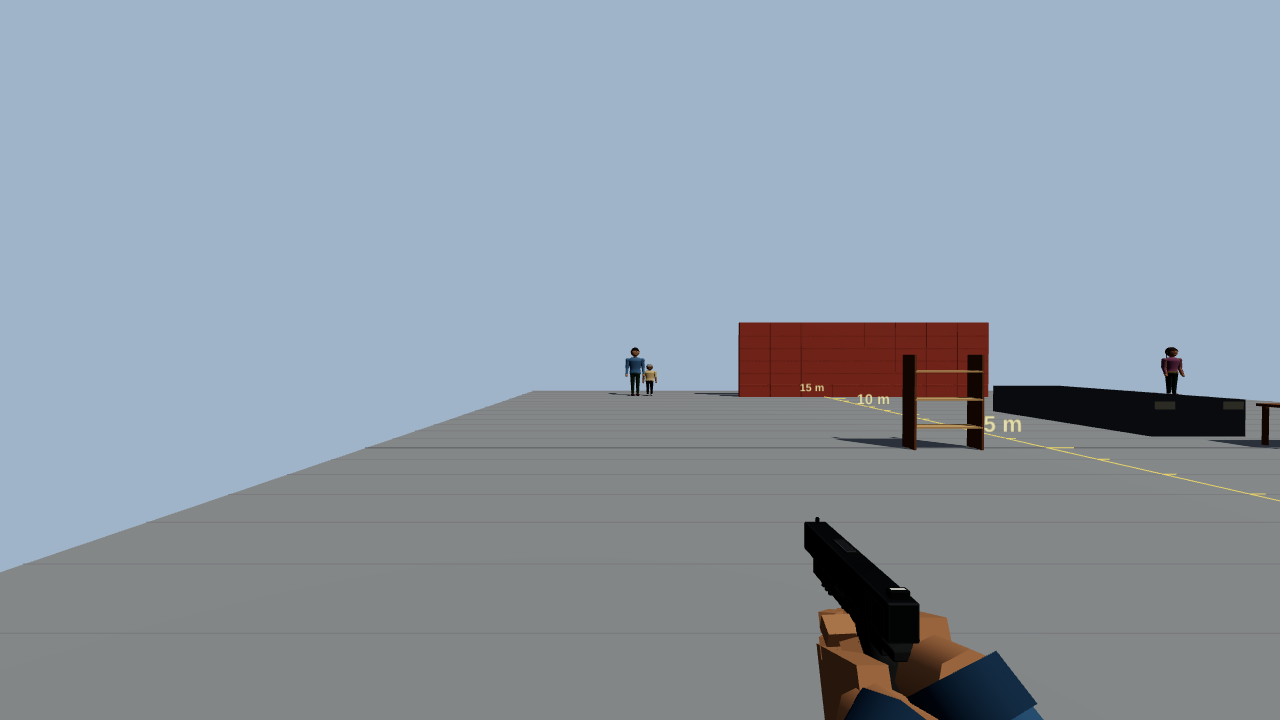
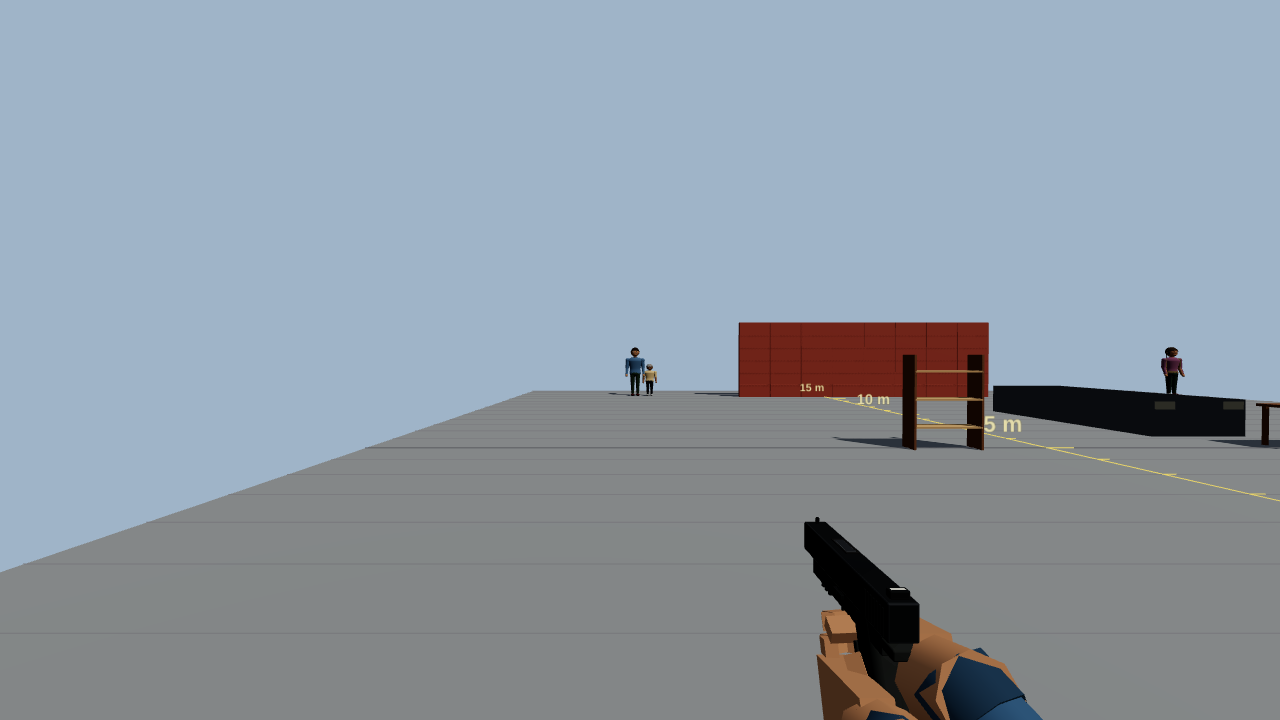
fix(game-characters-three): slimmer sleeves, three-segment tapered hands, readable kick leg
Left shoulder lower and back with thinner arms, tapered palm and fingers of three segments, a little self-glow so dark trousers read, kick foot raised so the leg shows; supporting hand of a handgun sits lower on the grip. Screenshots retaken.

Claude-Session: https://claude.ai/code/session_01GuPQ3pcqCNyJdQZbaF8AdD

Changed region(s): [[0.625, 0.8556, 0.8125, 1.0], [0.7188, 0.8556, 0.75, 0.8861]]

diff --git a/packages/game-characters-three/src/first-person/hand.ts b/packages/game-characters-three/src/first-person/hand.ts
@@ -2,18 +2,18 @@ import type { THREE_NS } from '../three'
 
 type Three = typeof THREE_NS
 
-/** Lengths of the two segments and the width of each finger, from the thumb side to the little finger (a right hand: the thumb is at -z). Metres. */
+/** Lengths of the three segments and the width of each finger, from the thumb side to the little finger (a right hand: the thumb is at -z). Metres; a finger is about 8 cm long. */
 const FINGERS = [
-  { z: -0.03, near: 0.04, far: 0.03, width: 0.018 },
-  { z: -0.01, near: 0.044, far: 0.034, width: 0.019 },
-  { z: 0.01, near: 0.04, far: 0.03, width: 0.018 },
-  { z: 0.028, near: 0.034, far: 0.026, width: 0.016 },
+  { z: -0.03, lengths: [0.034, 0.024, 0.02], width: 0.016 },
+  { z: -0.0105, lengths: [0.038, 0.027, 0.022], width: 0.0165 },
+  { z: 0.009, lengths: [0.035, 0.025, 0.02], width: 0.0155 },
+  { z: 0.027, lengths: [0.029, 0.02, 0.018], width: 0.0135 },
 ] as const
-const PALM = { length: 0.09, thick: 0.024, width: 0.088 }
-const FINGER_THICK = 0.017
-/** The curl at a full grip, radians: the near segment, the far one, and the difference between the fingers (the little finger curls more). */
-const CURL = { near: 1.32, far: 1.45, spread: 0.06 }
-const THUMB = { base: [0.005, -0.006, -0.044] as const, near: 0.036, far: 0.03, width: 0.021 }
+const PALM = { length: 0.09, thick: 0.026, width: 0.09, wristWidth: 0.066 }
+const FINGER_THICK = 0.0135
+/** The curl at a full grip, radians: the three segments, and the difference between the fingers (the little finger curls more). */
+const CURL = { near: 1.05, mid: 1.25, far: 0.85, spread: 0.06 }
+const THUMB = { base: [0.005, -0.006, -0.044] as const, near: 0.034, far: 0.028, width: 0.019 }
 
 export type HandMesh = {
   /** The hand with its origin at the middle of the palm: x to the knuckles, y the back of the hand, z the little-finger side (the thumb at -z). */
@@ -23,7 +23,7 @@ export type HandMesh = {
   dispose(): void
 }
 
-/** A low-poly hand in the kit's style: a palm, four fingers of two segments that curl, and a thumb that folds over them. A left hand is made by mirroring the group (`scale.z = -1`). */
+/** A low-poly hand in the kit's style: a palm, four fingers of three segments that curl, and a thumb that folds over them. A left hand is made by mirroring the group (`scale.z = -1`). */
 export const createHandMesh = (THREE: Three, skin: THREE_NS.Material, wristSkin: THREE_NS.Material = skin): HandMesh => {
   const root = new THREE.Group()
   root.name = 'first-person-hand'
@@ -37,7 +37,17 @@ export const createHandMesh = (THREE: Three, skin: THREE_NS.Material, wristSkin:
     parent.add(mesh)
     return mesh
   }
-  box(root, PALM.length, PALM.thick, PALM.width, 0, 0, 0)
+  // the palm narrows toward the wrist: a box whose wrist end is pulled in
+  const palmGeometry = new THREE.BoxGeometry(PALM.length, PALM.thick, PALM.width)
+  const palmPosition = palmGeometry.getAttribute('position')
+  for (let i = 0; i < palmPosition.count; i++) {
+    if (palmPosition.getX(i) < 0) palmPosition.setZ(i, (palmPosition.getZ(i) * PALM.wristWidth) / PALM.width)
+  }
+  palmGeometry.computeVertexNormals()
+  geometries.push(palmGeometry)
+  const palm = new THREE.Mesh(palmGeometry, skin)
+  palm.frustumCulled = false
+  root.add(palm)
   // the wrist the hand grows from
   const wristGeometry = new THREE.CylinderGeometry(0.03, 0.033, 0.05, 8)
   wristGeometry.rotateZ(Math.PI / 2)
@@ -47,17 +57,22 @@ export const createHandMesh = (THREE: Three, skin: THREE_NS.Material, wristSkin:
   wrist.frustumCulled = false
   root.add(wrist)
 
-  const joints: Array<{ near: THREE_NS.Group; far: THREE_NS.Group; weight: number }> = []
+  const joints: Array<{ segments: THREE_NS.Group[]; weight: number }> = []
   FINGERS.forEach((finger, index) => {
-    const near = new THREE.Group()
-    near.position.set(PALM.length / 2, 0.002, finger.z)
-    box(near, finger.near, FINGER_THICK, finger.width, finger.near / 2, 0, 0)
-    const far = new THREE.Group()
-    far.position.set(finger.near, 0, 0)
-    box(far, finger.far, FINGER_THICK * 0.92, finger.width * 0.94, finger.far / 2, 0, 0)
-    near.add(far)
-    root.add(near)
-    joints.push({ near, far, weight: 1 + index * (CURL.spread / CURL.near) })
+    const segments: THREE_NS.Group[] = []
+    let parent: THREE_NS.Object3D = root
+    let at = PALM.length / 2
+    finger.lengths.forEach((length, k) => {
+      const group = new THREE.Group()
+      group.position.set(at, k === 0 ? 0.002 : 0, k === 0 ? finger.z : 0)
+      const taper = 1 - k * 0.07
+      box(group, length, FINGER_THICK * taper, finger.width * taper, length / 2, 0, 0)
+      parent.add(group)
+      segments.push(group)
+      parent = group
+      at = length
+    })
+    joints.push({ segments, weight: 1 + index * (CURL.spread / CURL.near) })
   })
 
   // the thumb: it points forward and out when open, and folds across the fingers, toward the palm, when closed
@@ -73,10 +88,8 @@ export const createHandMesh = (THREE: Three, skin: THREE_NS.Material, wristSkin:
 
   const setGrip = (grip: number): void => {
     const k = Math.min(1, Math.max(0, grip))
-    for (const joint of joints) {
-      joint.near.rotation.z = -CURL.near * k * joint.weight
-      joint.far.rotation.z = -CURL.far * k * joint.weight
-    }
+    const curl = [CURL.near, CURL.mid, CURL.far]
+    for (const joint of joints) joint.segments.forEach((segment, i) => (segment.rotation.z = -curl[i]! * k * joint.weight))
     thumbNear.rotation.set(0, 0.55 - 1.45 * k, -0.1 - 0.75 * k)
     thumbFar.rotation.z = -0.1 - 0.7 * k
   }

diff --git a/packages/game-characters-three/src/first-person/arms.ts b/packages/game-characters-three/src/first-person/arms.ts
@@ -26,6 +26,9 @@ const REACH_SLACK = 0.97
 /** A foot is shown while a clip holds it by at least this much. */
 const FOOT_SHOWN = 0.001
 
+/** How much of its own colour each material glows with (0..1). */
+const FILL = 0.3
+
 /** The stances of the preset: `relaxed` and `fists` are rest poses, `hold` follows the targets of the tool in the hands. */
 export const FIRST_PERSON_STANCES = preset.stances as unknown as Readonly<Record<string, StanceDef>>
 /** The rig of the preset: shoulders, bones, elbow pole, hips and the leg of the kick. */
@@ -99,7 +102,7 @@ const mirrorQuaternion = (THREE: Three, q: THREE_NS.Quaternion): THREE_NS.Quater
 
 /**
  * The player's arms in first person, drawn in the space of the camera so they cannot leave the view. Each arm is a sleeve (upper arm and forearm, an elbow and a cuff) and a hand of skin (a palm,
- * four fingers of two segments and a thumb that close on a grip); the right leg (trouser and shoe) appears only while a kick holds it. The hands go where the stance puts them (`relaxed`, `fists`) or,
+ * four fingers of three segments and a thumb that close on a grip); the right leg (trouser and shoe) appears only while a kick holds it. The hands go where the stance puts them (`relaxed`, `fists`) or,
  * in the `hold` stance, where the tool in the hands asks (`HandTargets` of game-contracts, world space); a two-bone IK from fixed shoulders brings the sleeves to them, the elbow bending down and out. A
  * clip (`play`) moves the hands and the foot over that, by a weight that is 0 at its start and end.
  *
@@ -121,13 +124,15 @@ export function createFirstPersonArms(THREE: Three, options: FirstPersonArmsOpti
   const root = new THREE.Group()
   root.name = 'first-person-arms'
   root.userData.viewmodel = true
+  // a little of the colour glows by itself (`FILL`): the arms hang in the camera's space, where the scene's lights reach their undersides badly and a dark trouser would read as a hole
+  const lit = (color: number): THREE_NS.MeshLambertMaterial => new THREE.MeshLambertMaterial({ color, emissive: scaleHex(color, FILL) })
   const materials = {
-    skin: new THREE.MeshLambertMaterial({ color: colors.skin }),
-    sleeve: new THREE.MeshLambertMaterial({ color: colors.sleeve }),
-    cuff: new THREE.MeshLambertMaterial({ color: colors.cuff }),
-    trouser: new THREE.MeshLambertMaterial({ color: colors.trouser }),
-    shoe: new THREE.MeshLambertMaterial({ color: colors.shoe }),
-    sole: new THREE.MeshLambertMaterial({ color: scaleHex(colors.shoe, 0.55) }),
+    skin: lit(colors.skin),
+    sleeve: lit(colors.sleeve),
+    cuff: lit(colors.cuff),
+    trouser: lit(colors.trouser),
+    shoe: lit(colors.shoe),
+    sole: lit(scaleHex(colors.shoe, 0.55)),
   }
   const geometries: THREE_NS.BufferGeometry[] = []
   const Y = new THREE.Vector3(0, 1, 0)

diff --git a/packages/game-weapons-three/src/fx/hand-hold.ts b/packages/game-weapons-three/src/fx/hand-hold.ts
@@ -13,7 +13,7 @@ export const HAND_HOLD = {
   /** How far up the grip the web of the hand sits from its middle. */
   gripUp: 0.006,
   /** How far down the grip the supporting hand of a pistol sits from the middle. */
-  supportDown: 0.026,
+  supportDown: 0.036,
   /** Where along the handguard (0 the receiver, 1 the end of the forend) the supporting hand closes. */
   forendAt: 0.45,
   /** How far under the handguard the palm sits (half a handguard plus the palm). */

diff --git a/packages/game-characters-three/README.md b/packages/game-characters-three/README.md
@@ -50,7 +50,7 @@ The module takes the body, the view (`camera: { mode, set }`) and the state (`st
 
 `toRoomAvatar` also gives the room the first-person arms (`firstPerson: false` for none) and `strike(clipId)`, which plays the attack clip on the body and the first-person clip of the same id on the arms and answers the seconds to the impact (the same in both views).
 
-**First-person arms.** `createFirstPersonArms(THREE, { colors?, rig?, stances?, clips?, blend?, bob? })` builds sleeves (upper arm, forearm, elbow, cuff) and hands of skin (palm, four fingers of two segments, a thumb that close on a grip) drawn in the camera's space, plus the right leg that only shows during a kick. `arms.update(dt, { camera, targets, stance, speed, running, crouch })`: the `relaxed` and `fists` stances are rest poses (`FIRST_PERSON_STANCES`, from `presets/first-person-arms.json`), `hold` follows the `HandTargets` of `game-contracts` (world space) with a two-bone IK from fixed shoulders, the elbow bending down and out; a target out of reach is clamped (the shoulder moves `reachShift` toward it first). `arms.play('punch_right' | 'shove_two_hands' | 'front_kick')` overlays a `FirstPersonClip` (`FIRST_PERSON_CLIPS` of `game-characters-people`, same durations and impact seconds as the attack clips); `arms.on('event', fn)` gives its `impact`; `arms.handPose(side)` reads where a hand is drawn. Hand frame: x wrist to knuckles, y back of the hand, z little-finger side; a left hand is the right one mirrored.
+**First-person arms.** `createFirstPersonArms(THREE, { colors?, rig?, stances?, clips?, blend?, bob? })` builds sleeves (upper arm, forearm, elbow, cuff) and hands of skin (palm, four fingers of three segments, a thumb that close on a grip) drawn in the camera's space, plus the right leg that only shows during a kick. `arms.update(dt, { camera, targets, stance, speed, running, crouch })`: the `relaxed` and `fists` stances are rest poses (`FIRST_PERSON_STANCES`, from `presets/first-person-arms.json`), `hold` follows the `HandTargets` of `game-contracts` (world space) with a two-bone IK from fixed shoulders, the elbow bending down and out; a target out of reach is clamped (the shoulder moves `reachShift` toward it first). `arms.play('punch_right' | 'shove_two_hands' | 'front_kick')` overlays a `FirstPersonClip` (`FIRST_PERSON_CLIPS` of `game-characters-people`, same durations and impact seconds as the attack clips); `arms.on('event', fn)` gives its `impact`; `arms.handPose(side)` reads where a hand is drawn. Hand frame: x wrist to knuckles, y back of the hand, z little-finger side; a left hand is the right one mirrored.
 
 ## Geometry
 
